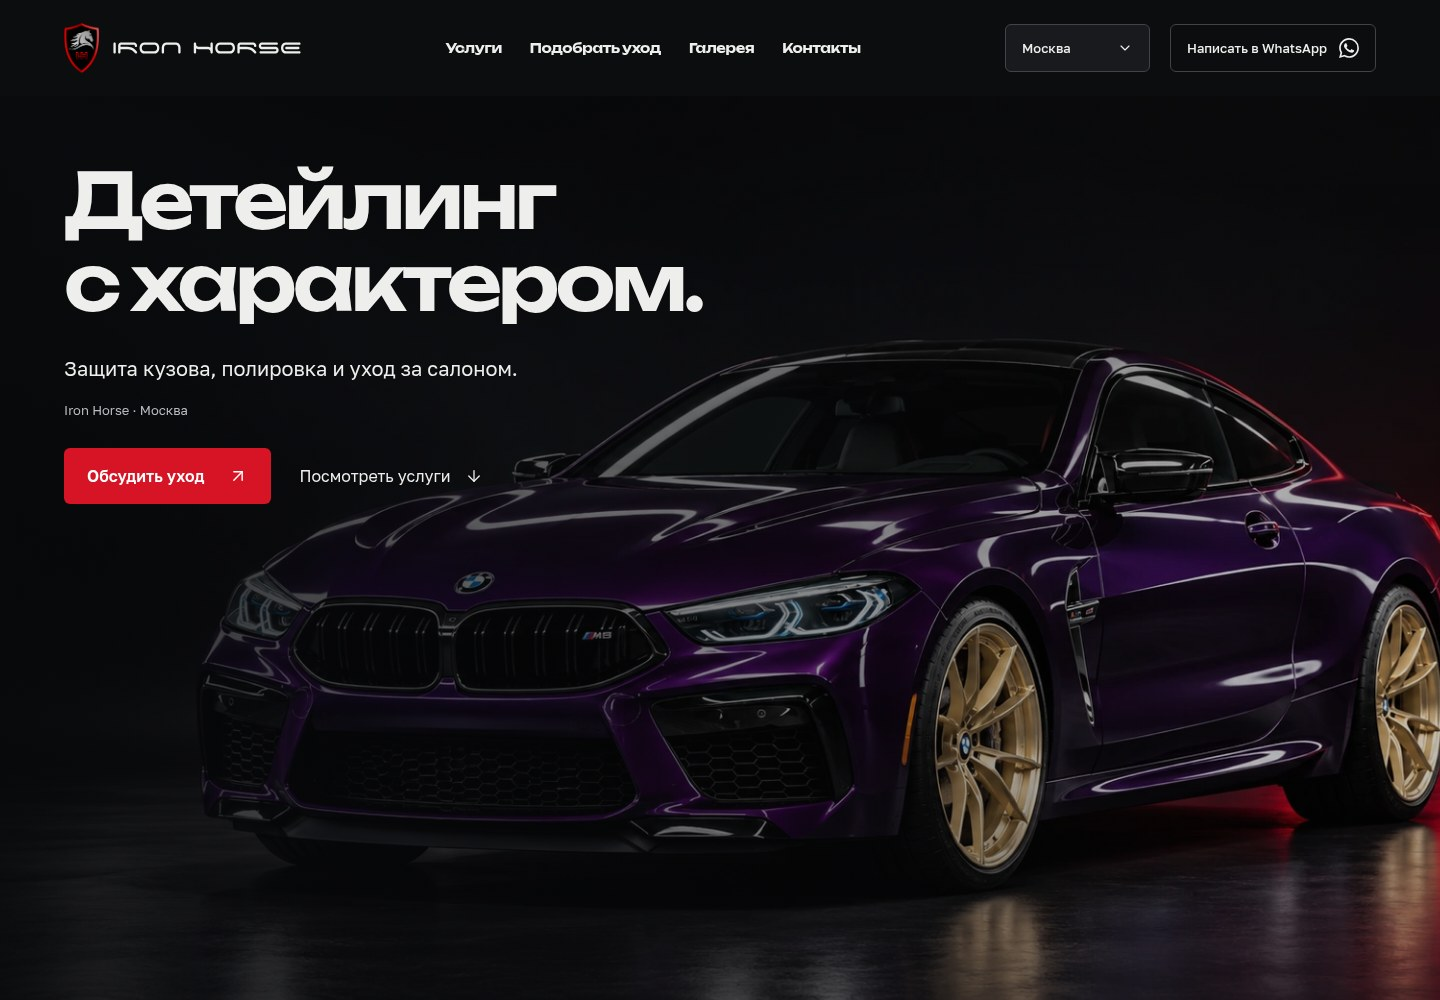
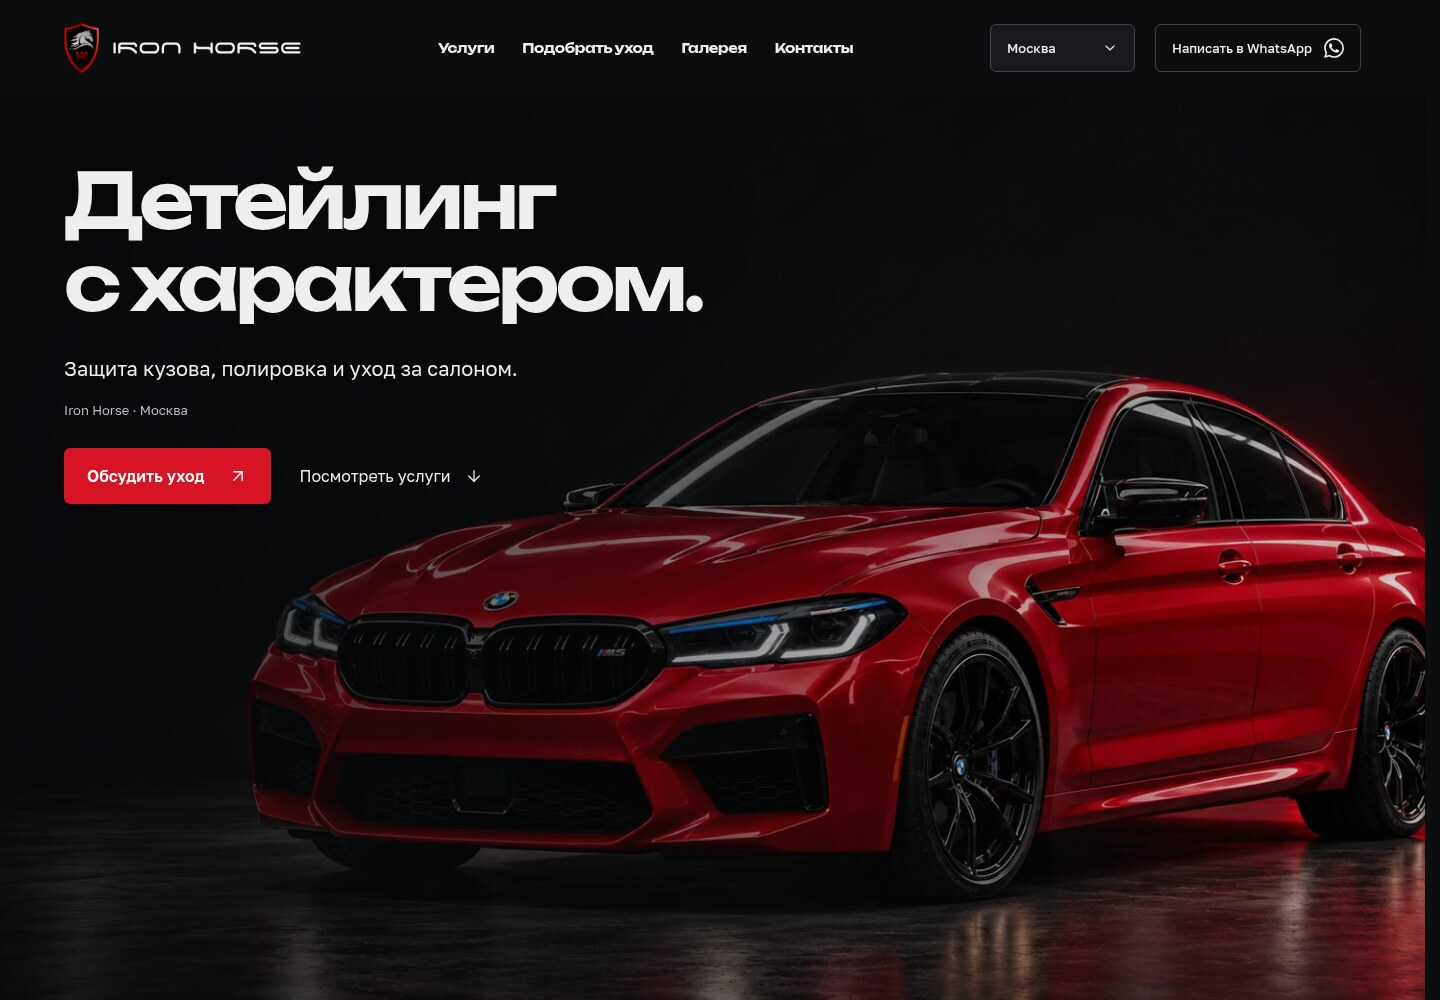
Replace hero with owner-inspired red BMW M5 studio compositions

diff --git a/dist/index.html b/dist/index.html
@@ -5,7 +5,7 @@
 <meta name="theme-color" content="#0c0d0f"><meta name="description" content="Iron Horse — детейлинг в Москве, Махачкале и Каспийске. Защитная плёнка, полировка, керамика и уход за салоном. Обсудите уход за вашим автомобилем в WhatsApp.">
 <meta property="og:title" content="Iron Horse — детейлинг с характером"><meta property="og:description" content="Защита, восстановление и уход за автомобилем. Москва · Махачкала · Каспийск."><meta property="og:type" content="website">
 <title>Iron Horse — детейлинг с характером</title>
-<link rel="icon" type="image/png" href="assets/shield.png"><link rel="preload" href="assets/unbounded.ttf" as="font" type="font/ttf" crossorigin><link rel="preload" href="assets/photos/photo-04.webp" as="image"><link rel="stylesheet" href="styles.css?v=11"><link rel="stylesheet" href="motion.css?v=11"><link rel="stylesheet" href="gallery.css?v=10">
+<link rel="icon" type="image/png" href="assets/shield.png"><link rel="preload" href="assets/unbounded.ttf" as="font" type="font/ttf" crossorigin><link rel="preload" href="assets/photos/hero-bmw-red-wide.webp" as="image" media="(min-width:851px)"><link rel="preload" href="assets/photos/hero-bmw-red-compact.webp" as="image" media="(min-width:601px) and (max-width:850px)"><link rel="preload" href="assets/photos/hero-bmw-red-mobile.webp" as="image" media="(max-width:600px)"><link rel="stylesheet" href="styles.css?v=12"><link rel="stylesheet" href="motion.css?v=11"><link rel="stylesheet" href="gallery.css?v=10">
 </head>
 <body>
 <a class="skip" href="#main">Перейти к содержимому</a>
@@ -37,7 +37,7 @@
 <nav class="mobile-nav" id="mobile-nav" aria-label="Мобильная навигация" hidden><a href="#services">Услуги</a><a href="#care">Подобрать уход</a><a href="#gallery">Галерея</a><a href="#studios">Контакты</a></nav>
 <main id="main">
 <div class="hero-story"><section class="hero" aria-labelledby="hero-title">
-<div class="hero-media"><div class="hero-camera"><img src="assets/photos/photo-04.webp" alt="Фиолетовый BMW с золотыми дисками" fetchpriority="high" width="1672" height="941"><div class="paint-light" aria-hidden="true"></div></div></div><div class="hero-shade" aria-hidden="true"></div>
+<div class="hero-media"><div class="hero-camera"><picture><source media="(max-width:600px)" srcset="assets/photos/hero-bmw-red-mobile.webp" width="1254" height="1254"><source media="(max-width:850px)" srcset="assets/photos/hero-bmw-red-compact.webp" width="1254" height="1254"><img src="assets/photos/hero-bmw-red-wide.webp" alt="Красный BMW M5 с чёрной крышей и дисками в студийном свете" fetchpriority="high" width="1672" height="941"></picture><div class="paint-light" aria-hidden="true"></div></div></div><div class="hero-shade" aria-hidden="true"></div>
 <div class="hero-content"><h1 id="hero-title">Детейлинг<br>с характером.</h1><p>Защита кузова, полировка и уход за салоном.</p><p class="hero-location">Iron Horse · <span id="hero-city">Москва</span></p><div class="hero-buttons"><a class="button button-red wa-link" href="https://wa.me/79104989211" target="_blank" rel="noopener noreferrer">Обсудить уход <svg aria-hidden="true"><use href="#arrow"/></svg></a><a class="text-link" href="#services">Посмотреть услуги <svg aria-hidden="true"><use href="#down"/></svg></a></div></div>
 </section></div>
 <div class="brand-strip" aria-label="Направления ухода"><div class="brand-strip-track"><span>Сохранить</span><span>Восстановить</span><span>Подчеркнуть</span></div></div>

diff --git a/dist/styles.css b/dist/styles.css
@@ -366,7 +366,8 @@ html.city-selecting {
 .hero {position:relative;isolation:isolate;overflow:hidden;min-height:740px;height:calc(100svh - var(--header-height));padding:64px var(--space) 72px}
 .hero-media {position:absolute;inset:0;z-index:-2}
 .hero-camera {position:absolute;inset:0;transform-origin:65% 65%}
-.hero-camera>img {width:100%;height:100%;object-fit:cover;object-position:center 58%;filter:brightness(.82)}
+.hero-camera>picture {display:block;width:100%;height:100%}
+.hero-camera img {width:100%;height:100%;object-fit:cover;object-position:center 58%;filter:brightness(.92)}
 .paint-light {position:absolute;top:-15%;bottom:-15%;left:-40%;width:40%;background:linear-gradient(110deg,transparent 18%,#ffffff08 35%,#ffffff35 50%,#ffffff08 65%,transparent 82%);mix-blend-mode:soft-light;opacity:.5;pointer-events:none}
 /* taste-skill-ignore: neutral photographic scrims provide text contrast over the actual hero photo. */ .hero-shade {position:absolute;inset:0;z-index:-1;pointer-events:none;background:linear-gradient(90deg,#08090bdd,transparent 85%),linear-gradient(180deg,#0c0d0f70,transparent 65%,#0c0d0f60)}
 .hero-content {max-width:900px}
@@ -377,7 +378,10 @@ html.city-selecting {
 @media(max-width:850px) {
 .hero {padding-top:48px;min-height:780px}
 .hero h1 {font-size:clamp(42px,7vw,64px)}
-.hero-camera>img {object-position:63% 70%}
+.hero-camera {top:auto;aspect-ratio:1}
+.hero-camera>picture {mask-image:linear-gradient(180deg,transparent,#000 18%)}
+.paint-light {top:30%;bottom:0}
+.hero-camera img {object-fit:contain;object-position:center bottom}
 }
 @media(max-width:600px) {
 .hero {padding-top:36px;min-height:768px;height:calc(100svh - var(--header-height));max-height:980px}
@@ -386,11 +390,11 @@ html.city-selecting {
 .hero-content .hero-location {font-size:var(--type-small);margin-top:16px}
 .hero-buttons {flex-direction:column;align-items:flex-start;gap:8px;margin-top:24px}
 .hero-buttons .text-link {font-size:var(--type-small)}
-.hero-media {inset:285px -80px 0 -55px}
-.hero-camera>img {object-fit:cover;object-position:61% 65%;filter:brightness(.9)}
+.hero-media {inset:285px 0 0}
+.hero-camera img {object-fit:contain;object-position:center bottom;filter:none}
 /* taste-skill-ignore: neutral photographic scrim, not a decorative gradient. */ .hero-shade {background:linear-gradient(180deg,#0c0d0f 0,#0c0d0f 37%,#0c0d0f90 47%,transparent 65%,#0c0d0f50)}
 }
-@media(max-width:370px) {.hero {min-height:760px}.hero-content>p {font-size:16px}.hero-media {inset:330px -110px 0 -55px}}
+@media(max-width:370px) {.hero {min-height:760px}.hero-content>p {font-size:16px}.hero-media {inset:330px 0 0}}
 
 /* Controls */
 .button {

diff --git a/README.md b/README.md
@@ -25,7 +25,7 @@ The UI/motion changes and optional deployment workflow are merged into `main`. A
 
 ## Interface
 
-- The opening restores the original large automotive photograph and restrained black/red/silver composition. It clearly names detailing and leads directly to the selected branch's WhatsApp. The exact wordmark appears in the header and footer; no repeated hero logo or shield-shaped surfaces remain.
+- The opening features a studio recreation of the owner’s red BMW M5 F90 LCI and the restrained black/red/silver composition. Three local WebP compositions serve desktop, tablet and phone through a responsive picture; matching media preloads request only the active composition. Existing smoothed camera and light animation also applies to this photograph. It clearly names detailing and leads directly to the selected branch's WhatsApp. The exact wordmark appears in the header and footer; no repeated hero logo or shield-shaped surfaces remain.
 - Above 1100px, six services use vertical tabs with a panel on the right. At 1100px and below, the same buttons and panels form a single-open accordion. Resizing retains the current service, selections and focus. Full service photographs are always visible on desktop; compact panels expose them through a native “Посмотреть автомобиль” disclosure, closed initially. The whole image remains available without cropping.
 - The care form presents the selected services, optional vehicle model and branch in a contrasting silver “План ухода” summary. Removing a service synchronizes its checkbox. All selected information comes from the same browser-local state and is encoded into an editable WhatsApp message. The site does not send a message or reserve an appointment.
 - Precision components share 6px control corners, consistent button/field sizes and short interaction transitions. Service actions distinguish added work; care choices have visible checkbox boundaries. Local Lucide icons identify the individual actions; the filled WhatsApp icon remains.
@@ -44,7 +44,7 @@ Without JavaScript, the service descriptions and all branch phone/WhatsApp/map l
 - `dist/styles.css`: brand tokens, five typography roles, restrained service/branch/FAQ separators, controls and responsive layout. Replaces the former `refinements.css` override layer.
 - `dist/motion.js` / `motion.css`: event-driven photographic movement, entrances, menu page shielding and system motion preference.
 - `dist/gallery.js` / `gallery.css`: gallery positioning and native dialog.
-- `dist/assets/`: original shield/wordmark, local Golos and Unbounded fonts, Lucide license, and nine edited owner-derived photographs with provenance sidecars. Lucide 0.468.0 symbols are embedded in `index.html`; no icon runtime or CDN is loaded.
+- `dist/assets/`: original shield/wordmark, local Golos and Unbounded fonts, Lucide license, nine edited owner-derived gallery photographs, and three responsive red-BMW hero recreations with provenance sidecars. Lucide 0.468.0 symbols are embedded in `index.html`; no icon runtime or CDN is loaded.
 
 No prices, guarantees, customer reviews, project results or brand partnerships are invented. The owner-derived photos have regenerated studio backgrounds; captions describe the vehicles and do not claim specific service outcomes or actual premises. Preserve provenance sidecars and the owner's instruction to omit public technical retouching labels.
 

diff --git a/UI-REVIEW.md b/UI-REVIEW.md
@@ -2,6 +2,12 @@
 
 2026-10-21. Component and whole-page motion update based on `d29f6e61204fb44a80a57aac97565388f933895c`.
 
+## Red BMW hero
+
+The opening now uses a studio recreation of the owner’s red BMW M5 F90 LCI, with black roof/wheels and facelift light signatures. Desktop uses a wide front three-quarter view, tablet a square three-quarter view, and phones a frontal view. Responsive picture sources and matching media preloads load one hero asset per viewport. Local WebP assets retain their generated pixel dimensions; provenance is recorded alongside each asset. Existing damped camera and gradient-light animation remains in place. Compact compositions fit the complete vehicle within the frame.
+
+All 684 browser assertions passed with the new hero. Additional manual Chromium checks at 320, 390, 768, 1440 and 2560px confirmed image decoding, the expected single image request, no horizontal overflow or JavaScript errors, and continued scroll-driven camera transforms. Compact framing was refined and the 20 motion-stability assertions repeated. Current desktop/phone screenshots are in `docs/previews/desktop.jpg` and `mobile.jpg`; older walkthrough videos still show the purple hero.
+
 ## Scroll-stability correction
 
 A user-reported scroll jitter was reproduced in Chromium: an already visible service choice stayed at opacity 1 during its 165ms delay, then jumped to approximately 0.16 opacity and a 28px displacement. Hero pointer exit also moved the light by about 67 percentage points in one frame.

diff --git a/DESIGN.md b/DESIGN.md
@@ -2,7 +2,7 @@
 
 ## Direction
 
-The original automotive composition is the visual foundation. A large purple BMW, its paint and reflections lead the first screen. “Детейлинг с характером” names the service; “Обсудить уход” goes directly to the selected branch's WhatsApp. The exact original logo stays in the header and returns at full width in the footer. Oversized repeated hero branding, silver hero cards and tapered section edges have been removed following independent reviews and the owner's feedback.
+The original automotive composition is the visual foundation. A red BMW M5 F90 LCI leads the first screen, recreated in a dark studio from the owner’s reference photographs. Wide desktop, three-quarter tablet and frontal phone compositions share the same red paint, black roof/wheels and facelift lights. “Детейлинг с характером” names the service; “Обсудить уход” goes directly to the selected branch's WhatsApp. The exact original logo stays in the header and returns at full width in the footer. Oversized repeated hero branding, silver hero cards and tapered section edges have been removed following independent reviews and the owner's feedback.
 
 ## Visual system
 
